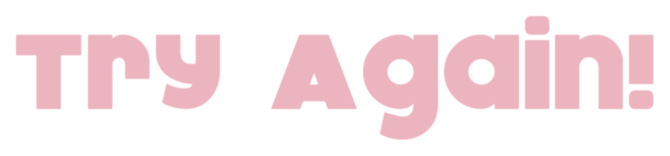
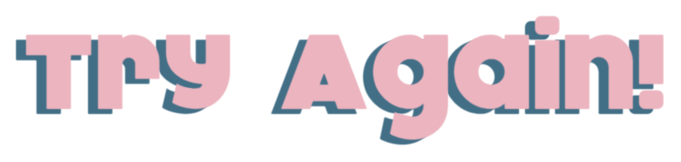
merged UI from Ara and fixed some UI

diff --git a/UI.java b/UI.java
@@ -2,18 +2,28 @@ import javax.swing.JFrame;
 import javax.swing.JPanel;
 import javax.swing.JButton;
 import javax.swing.JLabel;
+import javax.swing.JComponent;
+import javax.swing.BoxLayout;
+import javax.swing.Box;
+import javax.swing.ImageIcon;
+import javax.swing.border.EmptyBorder;
+import javax.swing.JFileChooser;
+import javax.swing.filechooser.FileSystemView;
+
 import java.awt.Color;
 import java.awt.CardLayout;
 import java.awt.Image;
-import javax.imageio.ImageIO;
-import javax.swing.ImageIcon;
-import java.io.File;
-import java.awt.image.BufferedImage;
 import java.awt.Dimension;
 import java.awt.Insets;
-import javax.swing.border.EmptyBorder;
 import java.awt.event.*;
+import java.awt.BorderLayout;
+import java.awt.FlowLayout;
 
+import javax.imageio.ImageIO;
+
+import java.io.File;
+
+import java.awt.image.BufferedImage;
 
 public class UI{
 	private static JPanel cardHolder;
@@ -23,8 +33,24 @@ public class UI{
 	private static JPanel endLose;
 	private static JPanel solns;
 
+	private static GamePanel game;
+
+	private static JButton solutions;
 	private static JButton start;
 	private static JButton win;
+	private static JButton retry;
+	private static JButton solutions2;
+	private static JButton lose;
+	private static JButton reset;
+	private static JButton check;
+	private static JButton checkx;
+	private static JButton checky;
+	private static JButton checkxy;
+	private static JButton filechooser;
+
+	private static final float RED = (float) 153/255;
+	private static final float GREEN = (float) 143/255;
+	private static final float BLUE = (float) 127/255;
 
 	public static void main(String[] args){
 		JFrame frame = new JFrame("Sudoku XY");
@@ -36,56 +62,246 @@ public class UI{
 		endWin = new JPanel();
 		endLose = new JPanel();
 		solns = new JPanel();
-		JPanel temp = new JPanel();
-
-		JButton win = new JButton("Win");
-		JButton lose = new JButton("Lose");
-
-		JButton solutions = new JButton("Show Solutions");
-		JButton retry = new JButton("Retry");
-		JButton next = new JButton("Next");
-		JButton prev = new JButton("Prev");
-
-		puzzleHolder.add(win);
-		puzzleHolder.add(lose);
-		puzzleHolder.setBackground(Color.PINK);
 
 		/*START OF MENU PANEL*/
 		start = new JButton();
 
+		menu.setBackground(new Color(RED, GREEN, BLUE));
 		try {
-			temp.setBackground(Color.WHITE);
-			temp.setPreferredSize(new Dimension(250, 500));
 
 			BufferedImage img = ImageIO.read(new File("Images/play-button.png"));
 
 			start.setIcon(new ImageIcon(img));
 			start.setSize(50,50);
-			start.setBackground(Color.WHITE);
+			start.setBackground(new Color(RED, GREEN, BLUE));
 			start.setMargin(new Insets(0, 0, 0, 0));
 			start.setBorder(new EmptyBorder(0,0,0,0));
 
-			temp.add(start);
-
 			BufferedImage mainPanelImage;
 
-			mainPanelImage = ImageIO.read(new File("Images/mainpanel.png"));
+			mainPanelImage = ImageIO.read(new File("Images/title.png"));
 			JLabel picLabel = new JLabel(new ImageIcon(mainPanelImage));
+			picLabel.setPreferredSize(new Dimension(570, 275));
 
 			menu.add(picLabel);
+			menu.add(start);
 		} catch (Exception ex) {
 			System.out.println(ex);
 		}
 
-		menu.setBackground(Color.WHITE);
-		menu.add(temp);
-
 		/*END OF MENU PANEL*/
 
 		/*START OF WIN PANEL*/
+		solutions = new JButton();
+		endWin.setBackground(new Color(RED, GREEN, BLUE));
+		endWin.setLayout(new FlowLayout());
+		try {
+
+			BufferedImage img = ImageIO.read(new File("Images/sol-button.png"));
+
+			solutions.setIcon(new ImageIcon(img));
+			solutions.setSize(50,50);
+			solutions.setBackground(new Color(RED, GREEN, BLUE));
+			solutions.setMargin(new Insets(0, 0, 0, 0));
+			solutions.setBorder(new EmptyBorder(0,0,0,0));
 
 
+			BufferedImage mainPanelImage;
+
+			mainPanelImage = ImageIO.read(new File("Images/congrats.png"));
+			JLabel picLabel = new JLabel(new ImageIcon(mainPanelImage));
+			picLabel.setPreferredSize(new Dimension(600, 250));
+			endWin.add(picLabel);
+			endWin.add(solutions);
+
+		} catch (Exception ex) {
+			System.out.println(ex);
+		}
 		/*END OF WIN PANEL*/
+
+		/*START OF LOSE PANEL*/
+		retry = new JButton();
+		solutions2 = new JButton(); 
+		endLose.setBackground(new Color(RED, GREEN, BLUE));
+		endLose.setLayout(new BoxLayout(endLose,BoxLayout.PAGE_AXIS));
+		try {
+			JPanel temp = new JPanel();
+			temp.setBackground(new Color(RED, GREEN, BLUE));
+
+			BufferedImage img = ImageIO.read(new File("Images/retry-button.png"));
+
+			retry.setIcon(new ImageIcon(img));
+			retry.setSize(50,50);
+			retry.setBackground(new Color(RED, GREEN, BLUE));
+			retry.setMargin(new Insets(0, 0, 0, 0));
+			retry.setBorder(new EmptyBorder(0,0,0,0));
+
+			img = ImageIO.read(new File("Images/sol-button.png"));
+
+			solutions2.setIcon(new ImageIcon(img));
+			solutions2.setSize(50,50);
+			solutions2.setBackground(new Color(RED, GREEN, BLUE));
+			solutions2.setMargin(new Insets(0, 0, 0, 0));
+			solutions2.setBorder(new EmptyBorder(0,0,0,0));
+
+			temp.add(retry);
+			temp.add(solutions2);
+
+			BufferedImage mainPanelImage;
+
+			mainPanelImage = ImageIO.read(new File("Images/tryagain.png"));
+			JLabel picLabel = new JLabel(new ImageIcon(mainPanelImage));
+			picLabel.setPreferredSize(new Dimension(600, 300));
+
+			picLabel.setAlignmentX(endLose.CENTER_ALIGNMENT);
+			temp.setAlignmentX(endLose.CENTER_ALIGNMENT);
+
+			endLose.add(picLabel);
+			endLose.add(temp);
+
+		} catch (Exception ex) {
+			System.out.println(ex);
+		}
+		/*END OF LOSE PANEL*/
+
+		/*START OF SOLUTIONS PANEL*/
+		JButton next = new JButton();
+		JButton prev = new JButton();
+		JPanel buttons = new JPanel();
+		JPanel answer = new JPanel();
+		try {
+			buttons.setBackground(new Color(RED, GREEN, BLUE));
+			buttons.setLayout(new FlowLayout(FlowLayout.CENTER,70,10));
+			BufferedImage img = ImageIO.read(new File("Images/next-button.png"));
+			answer.setBackground(Color.PINK);
+			next.setIcon(new ImageIcon(img));
+			next.setSize(50,50);
+			next.setBackground(new Color(RED, GREEN, BLUE));
+			next.setMargin(new Insets(0, 0, 0, 0));
+			next.setBorder(new EmptyBorder(0,0,0,0));
+
+			img = ImageIO.read(new File("Images/prev-button.png"));
+
+			prev.setIcon(new ImageIcon(img));
+			prev.setSize(50,50);
+			prev.setBackground(new Color(RED, GREEN, BLUE));
+			prev.setMargin(new Insets(0, 0, 0, 0));
+			prev.setBorder(new EmptyBorder(0,0,0,0));
+
+			
+			buttons.add(prev);
+			buttons.add(next);
+		} catch (Exception ex) {
+			System.out.println(ex);
+		}
+		solns.setLayout(new BorderLayout());
+		solns.add(buttons,BorderLayout.SOUTH);
+		solns.add(answer,BorderLayout.CENTER);
+		solns.setBackground(new Color(RED, GREEN, BLUE));
+		/*END OF SOLUTIONS PANEL*/
+
+		/*START OF PUZZLE PANEL*/
+		JPanel sideOptions = new JPanel();
+		JPanel topOptions = new JPanel();
+
+		game = new GamePanel();
+		win = new JButton("Win");
+		lose = new JButton("Lose");
+		reset = new JButton();
+		check = new JButton();
+		checkx = new JButton();
+		checky = new JButton();
+		checkxy = new JButton();
+		filechooser = new JButton();
+
+		sideOptions.setPreferredSize(new Dimension(150 ,500));
+		puzzleHolder.setLayout(new BorderLayout());
+		game.setBackground(Color.BLUE);
+		sideOptions.setBackground(new Color(RED, GREEN, BLUE));
+		topOptions.setBackground(new Color(RED, GREEN, BLUE));
+
+		sideOptions.setLayout(new BoxLayout(sideOptions,BoxLayout.PAGE_AXIS));
+		topOptions.setLayout(new BoxLayout(topOptions, BoxLayout.X_AXIS));
+
+		try{
+			BufferedImage img = ImageIO.read(new File("Images/reset-button.png"));
+			reset.setPreferredSize(new Dimension(60, 60));
+			reset.setIcon(new ImageIcon(img));
+			reset.setBackground(new Color(RED, GREEN, BLUE));
+			reset.setMargin(new Insets(0, 0, 0, 0));
+			reset.setBorder(new EmptyBorder(0,0,0,0));
+
+			img = ImageIO.read(new File("Images/file-button.png"));
+			filechooser.setIcon(new ImageIcon(img));
+			filechooser.setPreferredSize(new Dimension(60, 60));
+			filechooser.setBackground(new Color(RED, GREEN, BLUE));
+			filechooser.setMargin(new Insets(0, 0, 0, 0));
+			filechooser.setBorder(new EmptyBorder(0,0,0,0));
+
+			topOptions.add(Box.createHorizontalStrut(50));
+			topOptions.add(filechooser);
+			topOptions.add(Box.createHorizontalStrut(430));
+			topOptions.add(reset);
+
+			img = ImageIO.read(new File("Images/check-button.png"));
+			check.setIcon(new ImageIcon(img));
+			check.setSize(50,50);
+			check.setBackground(new Color(RED, GREEN, BLUE));
+			check.setMargin(new Insets(0, 0, 0, 0));
+			check.setBorder(new EmptyBorder(0,0,0,0));
+			check.setAlignmentX(check.CENTER_ALIGNMENT);
+
+			img = ImageIO.read(new File("Images/checkx-button.png"));
+			checkx.setIcon(new ImageIcon(img));
+			checkx.setSize(50,50);
+			checkx.setBackground(new Color(RED, GREEN, BLUE));
+			checkx.setMargin(new Insets(0, 0, 0, 0));
+			checkx.setBorder(new EmptyBorder(0,0,0,0));
+			checkx.setAlignmentX(checkx.CENTER_ALIGNMENT);
+
+			img = ImageIO.read(new File("Images/checky-button.png"));
+			checky.setIcon(new ImageIcon(img));
+			checky.setSize(50,50);
+			checky.setBackground(new Color(RED, GREEN, BLUE));
+			checky.setMargin(new Insets(0, 0, 0, 0));
+			checky.setBorder(new EmptyBorder(0,0,0,0));
+			checky.setAlignmentX(checky.CENTER_ALIGNMENT);
+
+			img = ImageIO.read(new File("Images/checkxy-button.png"));
+			checkxy.setIcon(new ImageIcon(img));
+			checkxy.setSize(50,50);
+			checkxy.setBackground(new Color(RED, GREEN, BLUE));
+			checkxy.setMargin(new Insets(0, 0, 0, 0));
+			checkxy.setBorder(new EmptyBorder(0,0,0,0));
+			checkxy.setAlignmentX(checkxy.CENTER_ALIGNMENT);
+
+			
+			sideOptions.add(win);//temp button only
+			sideOptions.add(lose);//temp button only
+			
+			/*sideOptions.add(Box.createHorizontalStrut(10));*/
+			sideOptions.add(check);
+			sideOptions.add(Box.createVerticalStrut(10));
+
+			/*sideOptions.add(Box.createHorizontalStrut(10));*/
+			sideOptions.add(checkx);
+			sideOptions.add(Box.createVerticalStrut(10));
+
+			/*sideOptions.add(Box.createHorizontalStrut(10));*/
+			sideOptions.add(checky);
+			sideOptions.add(Box.createVerticalStrut(10));
+
+			/*sideOptions.add(Box.createHorizontalStrut(10));*/
+			sideOptions.add(checkxy);
+		
+		}catch(Exception ex){
+			System.out.println(ex);
+		}
+		puzzleHolder.add(topOptions, BorderLayout.NORTH);
+		puzzleHolder.add(sideOptions,BorderLayout.EAST);
+		puzzleHolder.add(game,BorderLayout.CENTER);
+
+		/*END OF PUZZLE PANEL*/
 
 		cardHolder.add(menu, "Menu");
 		cardHolder.add(puzzleHolder, "Puzzle");
@@ -97,7 +313,7 @@ public class UI{
 		frame.setContentPane(cardHolder);
 
 		frame.pack();
-		frame.setSize(500, 500);
+		frame.setSize(700, 500);
 	    frame.setLocation(500, 100);
 	    frame.setVisible(true);
 		
@@ -123,6 +339,40 @@ public class UI{
 				CardLayout c = (CardLayout) cardHolder.getLayout();
 
 				c.show(cardHolder, "Lose");
+			}
+		});
+
+		retry.addActionListener(new ActionListener() {
+			public void actionPerformed(ActionEvent e){
+				CardLayout c = (CardLayout) cardHolder.getLayout();
+
+				c.show(cardHolder, "Puzzle");
+			}
+		});
+
+		solutions.addActionListener(new ActionListener() {
+			public void actionPerformed(ActionEvent e){
+				CardLayout c = (CardLayout) cardHolder.getLayout();
+
+				c.show(cardHolder, "Solutions");
+			}
+		});
+
+		solutions2.addActionListener(new ActionListener() {
+			public void actionPerformed(ActionEvent e){
+				CardLayout c = (CardLayout) cardHolder.getLayout();
+
+				c.show(cardHolder, "Solutions");
+			}
+		});
+		
+		filechooser.addActionListener(new ActionListener() {
+			public void actionPerformed(ActionEvent e){
+				JFileChooser jfc = new JFileChooser(FileSystemView.getFileSystemView().getHomeDirectory());
+				int returnValue = jfc.showOpenDialog(null);
+				if(returnValue == JFileChooser.APPROVE_OPTION){
+					File selected = jfc.getSelectedFile();
+				}	
 			}
 		});
 	}

diff --git a/GamePanel.java b/GamePanel.java
@@ -1,0 +1,6 @@
+/*Class for the Sudoku Puzzle UI*/
+import javax.swing.JPanel;
+
+public class GamePanel extends JPanel{
+	
+}
